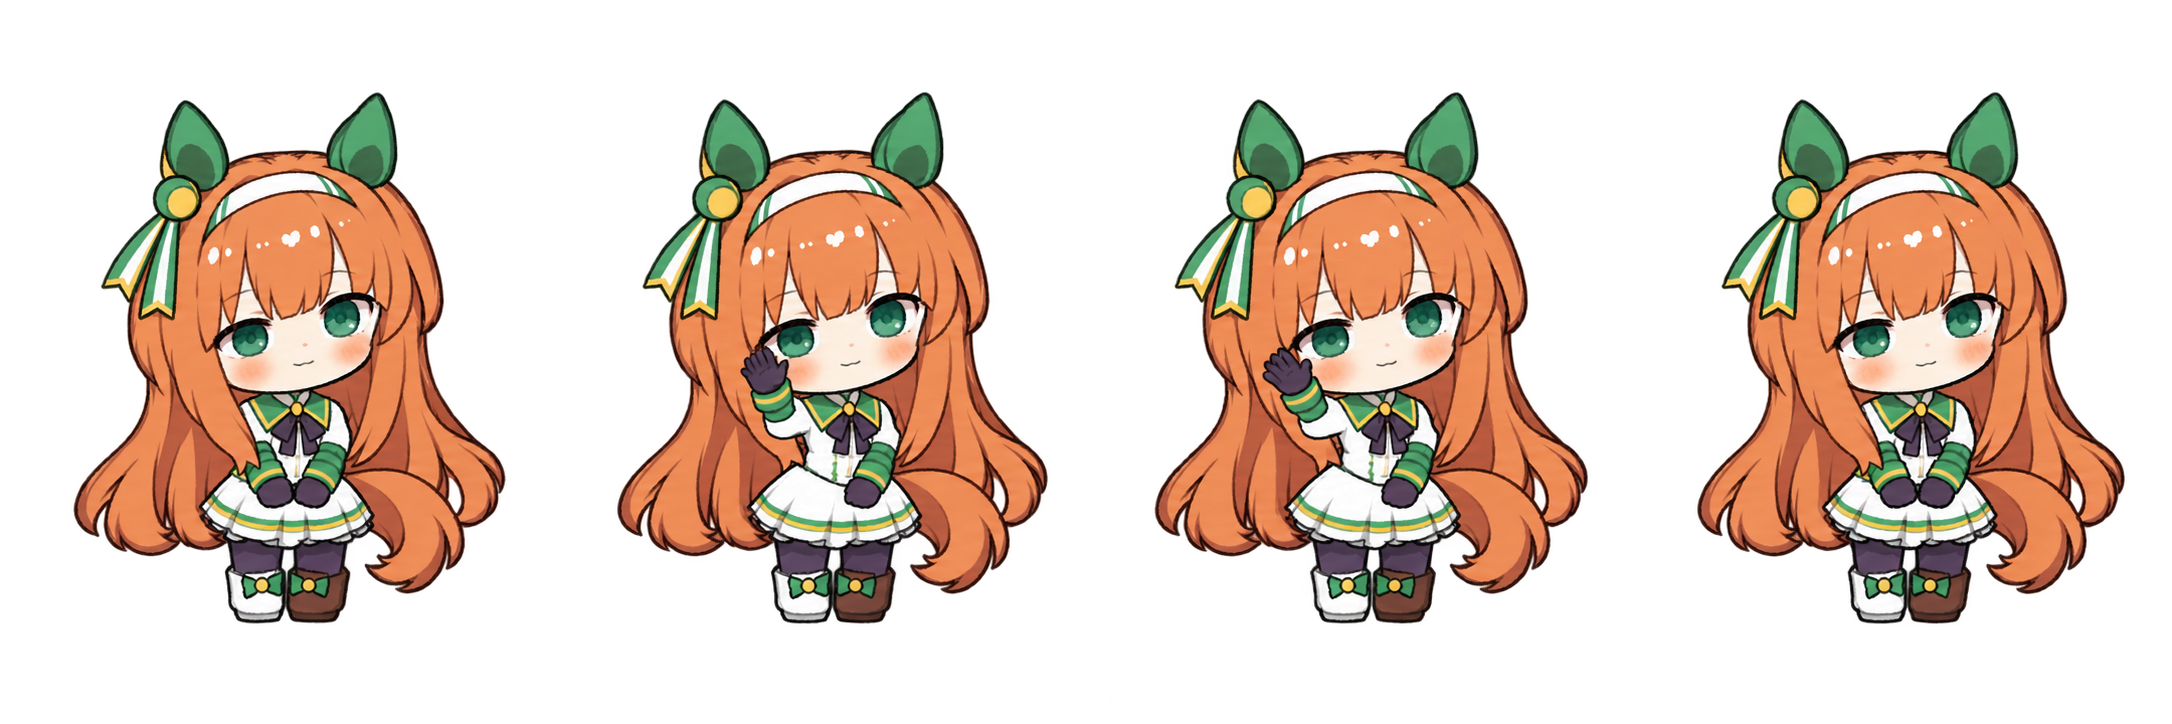
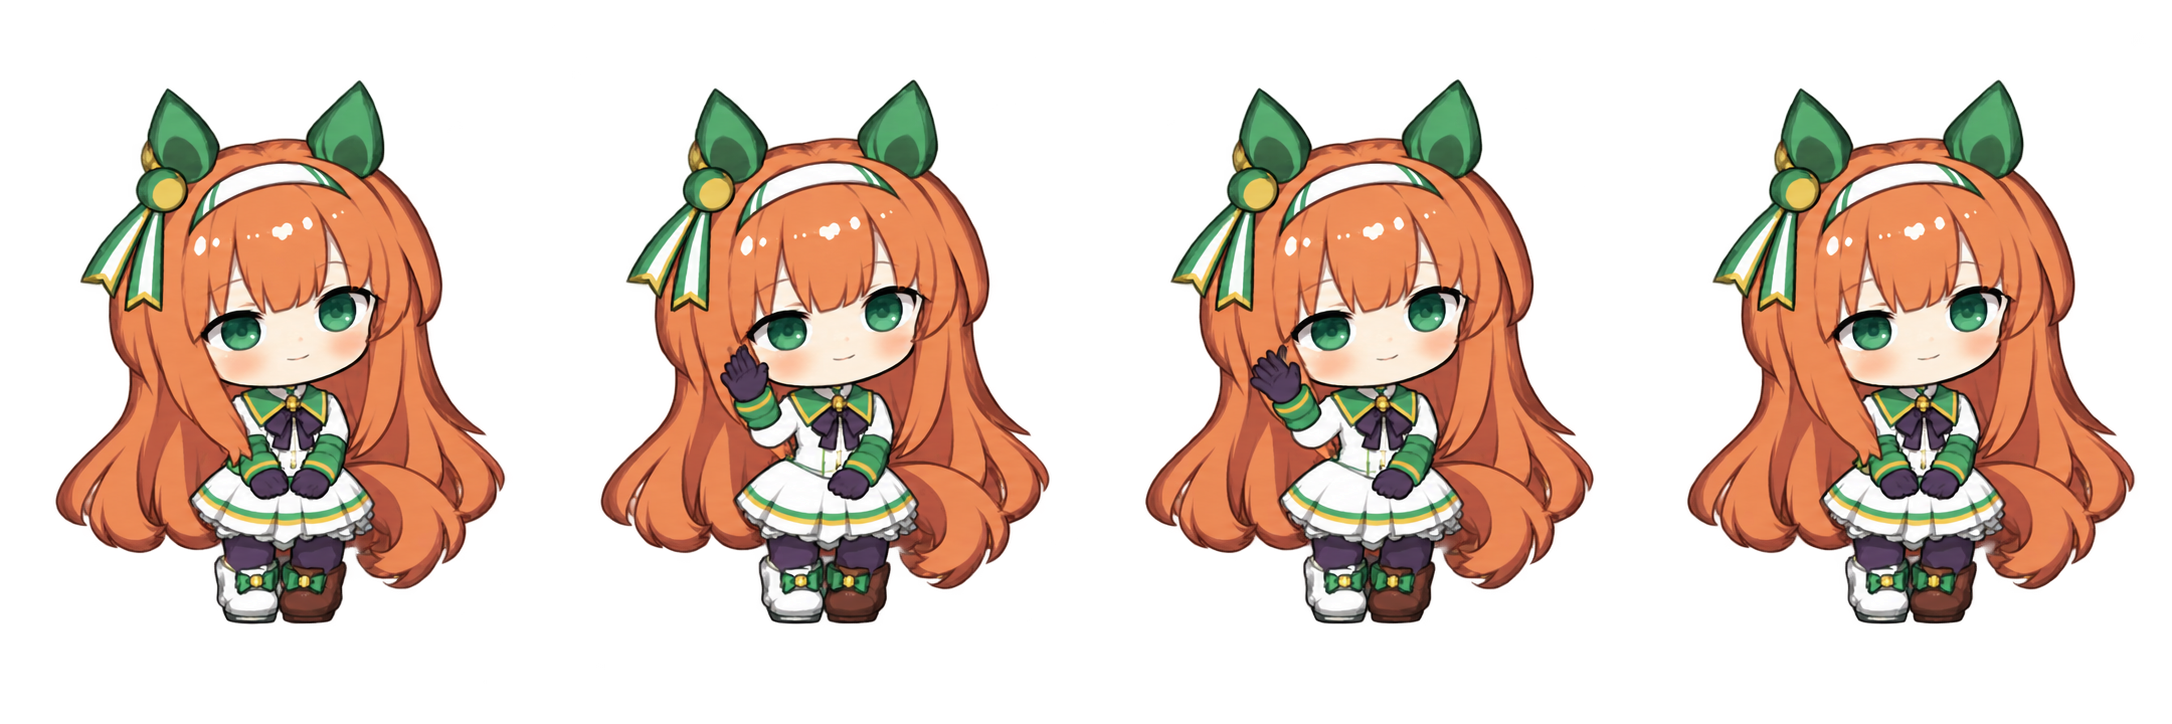
胜负服全身铃鹿 v1.3

diff --git a/pets/suzuka-race-outfit-fullbody-handdrawn/creation/prompts/waving.md b/pets/suzuka-race-outfit-fullbody-handdrawn/creation/prompts/waving.md
@@ -1,1 +1,9 @@
-Edit the first supplied old animation strip, with same ordered poses, expression, facing and movement, repairing only accessory and palette. Input2 repaired canonical two-tail neutral and input3 original idle color authority, input4 repaired idle, input5 original sheet. Match original gentle IDLE matte palette in ALL frames: softly muted warm chestnut/light peach-orange hair, forest green, dark plum, ivory whites and skin, no orange/red oversaturation, brightness or contrast boost. Exactly TWO long individual green-white-gold flat ribbons from gold circle on ear, no extra bow, tab, third ribbon or stacked tiers, use repaired base construction. Preserve identity, compact two-head fullbody proportions, eyes, hair highlights, handdrawn outline, green-white outfit and asymmetric footwear, tail, headband. Do not redesign poses or character. FOUR greeting frames exactly in original order: resting hands, raise attached hand, attached hand waves, return to rest. Body remains stable, hand genuinely raised in middle poses. Output one horizontal row of separated complete sprites, ears/boots/hair/tail fully visible. Equal character size and shared baseline except intentional jumping. Leave generous transparent gaps and substantial outer margin, no first/last clipping or neighboring overlap. No text/labels/numbers/boxes, background, detached effects, speed lines, shadows, trail, smoke, sparks or icons. Transparent background.
+Edit the existing full-body Silence Suzuka pet's WAVING animation. Image 1 is the fetched current full sprite sheet (identity); image 2 is the authoritative current IDLE portrait (face proportions, palette and geometry); image 3 is the IDLE strip; image 4 is the defective old WAVING strip (gesture only, do NOT copy its flattened face or shifting body).
+
+Produce ONE coherent horizontal four-frame animation strip with exactly FOUR separated complete characters, identical drawing scale and common planted-foot baseline. Match the IDLE character exactly: adorable two-head-tall chibi proportions, full body, big soft rounded face with its original uncompressed height, large green eyes, warm softly shaded chestnut long hair, green-and-white race outfit, dark plum bow, gold trims, dark plum gloves, same asymmetric shoes, green ear coverings, white headband, round green/gold side ornament with EXACTLY TWO long ribbon tassels. Preserve the loose delicate hand-drawn linework and soft muted colors. No pixel style, glossy 3D, stronger saturation, darkened hair, exaggerated whites, narrowed pupils or restyled eyes.
+
+Essential repair: keep the FACE and HEAD SHAPE identical to IDLE. Do not squash the face vertically or make it wider/flatter. Match the idle's mild natural head angle but keep it fixed in all four frames. SAME nose, cheeks, eye spacing, chin height, hair silhouette and ear placement in all four drawings. The torso, neck, chest bow and center jewel, waist, skirt, legs, shoes and feet must stay anchored at exactly the same position and proportions throughout. Do not redraw alternate body builds per pose. No body swaying, bobbing, stretching, squash, scale changes, rotation, walking or head bouncing. Allow only the attached waving arm to move. Keep long hair, tail, ears and ribbons stationary; no effects.
+
+Frames: 1 both gloved hands in the idle's calm chest-level resting position. 2 raise the character's right arm (viewer-left) to a gentle greeting next to the cheek, elbow attached to the exact same shoulder; other hand remains at chest. 3 rotate just the waving forearm/wrist slightly outward to express a friendly wave without shifting the elbow, shoulder, chest, head or shoes. 4 return to the same resting hand pose as frame 1, all static anatomy exactly matched. Keep the same relaxed open-eye expression in all four frames. The hand is an ordinary small attached dark plum glove, not a floating hand, giant glove or effect. The upper arm should bend naturally, no detached elbow and no extra limbs. Position raised hand away from the eye so the green iris remains visible.
+
+At animation size this must look like one fixed character lifting and waving her hand, with only intentional arm motion. Four complete poses with generous transparent gutters and edge margins, consistent baseline and subject size, no clipping, no neighboring frame bleed, no labels, numbers, guide boxes, background, shadows, motion arcs or marks. Fully transparent alpha. Do not generate a complete atlas or any other animation state.

diff --git a/pets/suzuka-race-outfit-fullbody-handdrawn/README.md b/pets/suzuka-race-outfit-fullbody-handdrawn/README.md
@@ -2,7 +2,7 @@
 
 栗色长发、碧绿眼眸与绿白胜负服。保留两条飘带耳饰，以柔和配色和手绘线条表现安静、轻盈的无声铃鹿。
 
-**v1.2** · [下载便携包](https://github.com/MIBXR/suzuka-pets/releases/tag/v1.2-suzuka-race-outfit-fullbody-handdrawn) · [制作记录与提示词](creation/README.md) · [高清素材](materials/) · [成品文件](package/)
+**v1.3** · [下载便携包](https://github.com/MIBXR/suzuka-pets/releases/tag/v1.3-suzuka-race-outfit-fullbody-handdrawn) · [制作记录与提示词](creation/README.md) · [高清素材](materials/) · [成品文件](package/)
 
 | 动作 | 预览 |
 | --- | --- |
@@ -11,6 +11,6 @@
 | 工作 | ![工作](package/previews/running.gif) |
 | 十六方向注视 | ![十六方向注视](package/previews/look-directions.gif) |
 
-沿用原稿，调整挥手、跳跃、失落和后八个注视方向的位置与尺度。
+更新挥手原稿，固定身体与肩部关系，保留手臂的招呼动作，并统一配色。
 
 角色来自[《赛马娘 Pretty Derby》](https://umamusume.jp/character/silencesuzuka)。保留画风参考署名：[Pixiv 1621147](https://www.pixiv.net/users/1621147)。角色及参考作品权利归原权利人。

diff --git a/pets/suzuka-race-outfit-fullbody-handdrawn/package/README.md b/pets/suzuka-race-outfit-fullbody-handdrawn/package/README.md
@@ -1,10 +1,10 @@
 # 无声铃鹿 · 胜负服全身手绘
 
-v1.2 · 栗色长发、碧绿眼眸与绿白胜负服。保留两条飘带耳饰，以柔和配色和手绘线条表现安静、轻盈的无声铃鹿。
+v1.3 · 栗色长发、碧绿眼眸与绿白胜负服。保留两条飘带耳饰，以柔和配色和手绘线条表现安静、轻盈的无声铃鹿。
 
 本包包含可导入的 `spritesheet.png`、名称与描述等信息 `pet.json`，以及 `previews/` 中的逐动作 GIF。
 
-图集采用 sprite v2：1536×2288 像素，8 列×11 行，单格 192×208，包含九种动作和十六个注视方向。作品版本 v1.2 与图集协议版本是两回事。
+图集采用 sprite v2：1536×2288 像素，8 列×11 行，单格 192×208，包含九种动作和十六个注视方向。作品版本 v1.3 与图集协议版本是两回事。
 
 将本包交给支持 sprite v2 的桌宠应用或 Agent，读取 `pet.json` 后导入原始 PNG。是否启用由你选择；GIF 用于观看动作。
 

diff --git a/README.md b/README.md
@@ -8,7 +8,7 @@
 
 ![胜负服全身铃鹿待机](pets/suzuka-race-outfit-fullbody-handdrawn/package/previews/idle.gif) ![胜负服全身铃鹿挥手](pets/suzuka-race-outfit-fullbody-handdrawn/package/previews/waving.gif)
 
-**v1.2** · [作品与动作](pets/suzuka-race-outfit-fullbody-handdrawn/) · [制作记录](pets/suzuka-race-outfit-fullbody-handdrawn/creation/README.md) · [高清原稿](pets/suzuka-race-outfit-fullbody-handdrawn/materials/) · [下载便携包](https://github.com/MIBXR/suzuka-pets/releases/tag/v1.2-suzuka-race-outfit-fullbody-handdrawn)
+**v1.3** · [作品与动作](pets/suzuka-race-outfit-fullbody-handdrawn/) · [制作记录](pets/suzuka-race-outfit-fullbody-handdrawn/creation/README.md) · [高清原稿](pets/suzuka-race-outfit-fullbody-handdrawn/materials/) · [下载便携包](https://github.com/MIBXR/suzuka-pets/releases/tag/v1.3-suzuka-race-outfit-fullbody-handdrawn)
 
 ## 无声铃鹿 · 运动服半身手绘
 

diff --git a/pets/suzuka-race-outfit-fullbody-handdrawn/creation/README.md b/pets/suzuka-race-outfit-fullbody-handdrawn/creation/README.md
@@ -30,6 +30,6 @@
 
 提示词保留实际采用的文字。高清原稿保存生成阶段的细节，成品图集保存最终选择的帧与排列。
 
-## v1.2
+## v1.3
 
-沿用原稿，调整挥手、跳跃、失落和后八个注视方向的位置与尺度。
+更新挥手原稿，固定身体与肩部关系，保留手臂的招呼动作，并统一配色。
